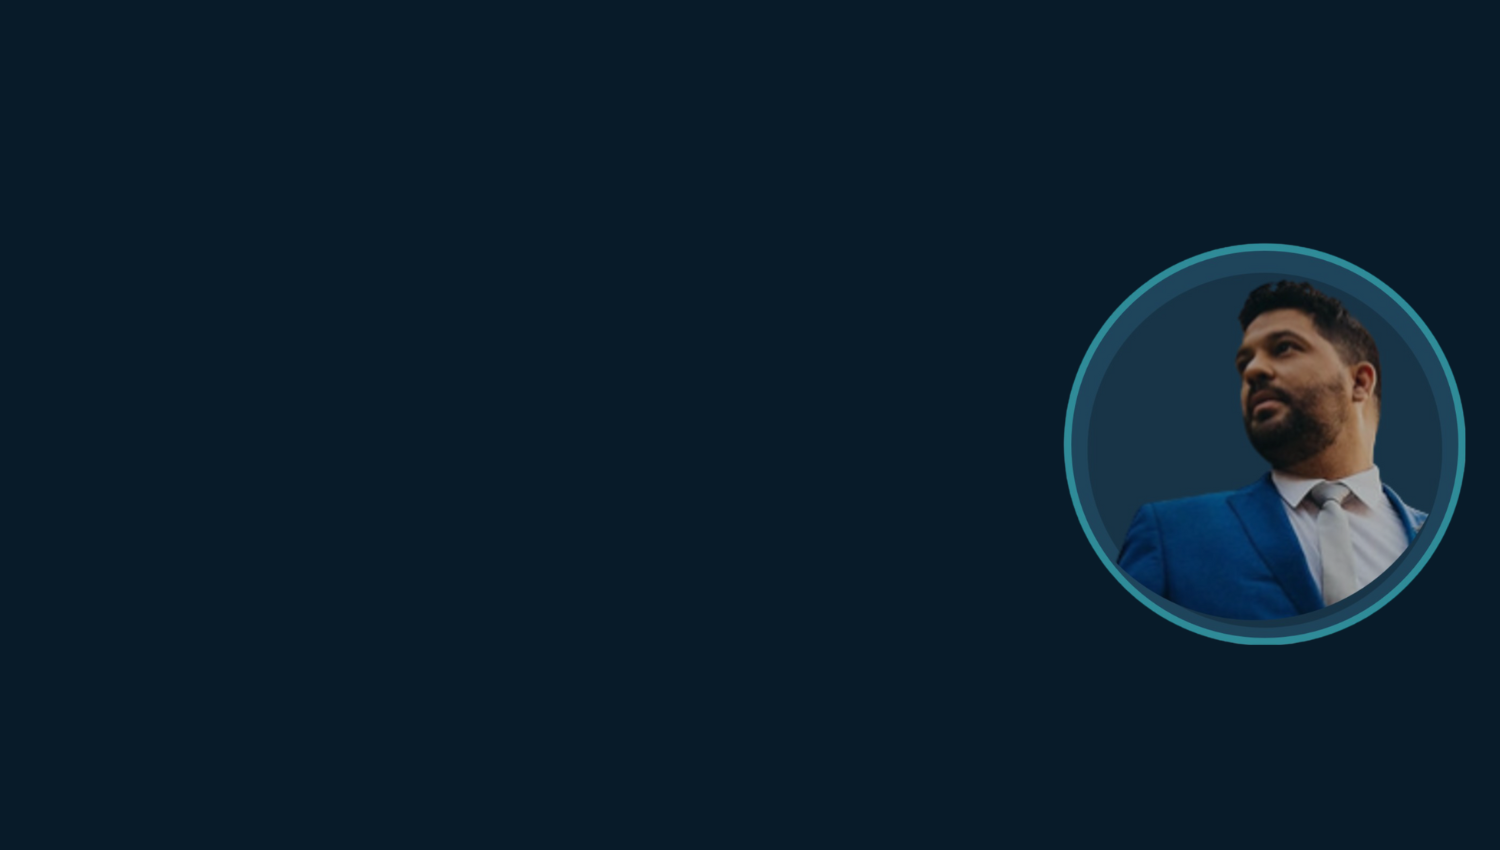
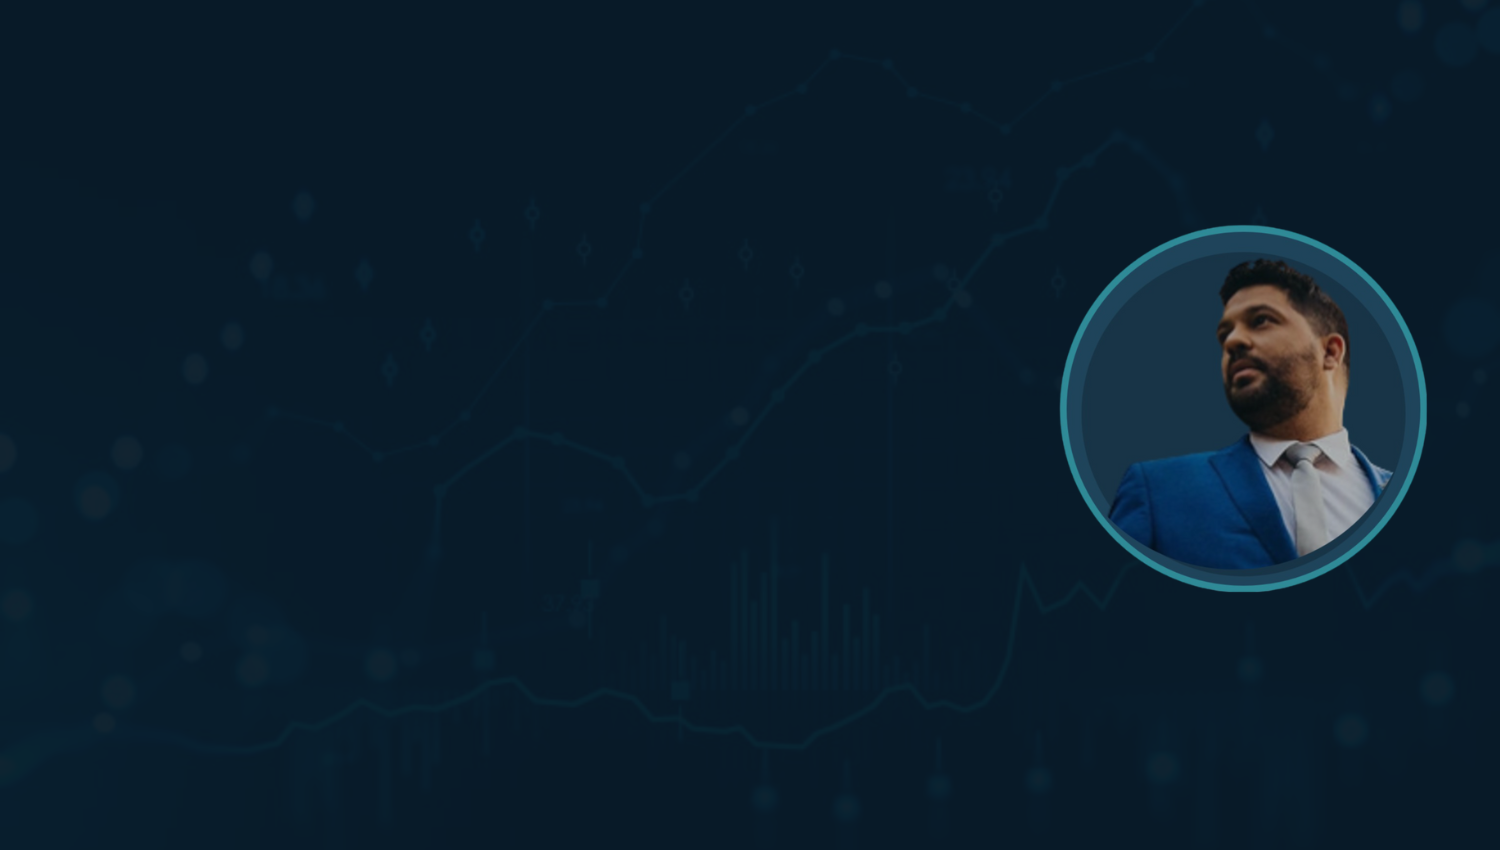
ajustando index

Changed region(s): [[0.7053, 0.2447, 0.9813, 0.7647]]

diff --git a/assets/css/geral/responsivo.css b/assets/css/geral/responsivo.css
@@ -1,0 +1,98 @@
+/* Estilos para telas pequenas (celulares) */
+@media (max-width: 600px) {
+    header {
+        flex-direction: column;
+        align-items: flex-start;
+        padding: 10px 5%;
+    }
+
+    .navbar {
+        flex-direction: column;
+        width: 100%;
+        align-items: flex-start;
+    }
+
+    .navbar a {
+        padding: 10px 0;
+        width: 100%;
+        text-align: center;
+        margin-left: 0;
+    }
+
+    .home {
+        background: #081b29;
+        padding: 20px 5%;
+    }
+
+    .home-content h1 {
+        font-size: 24px;
+    }
+
+    .home-content h3 {
+        font-size: 18px;
+    }
+
+    .home-content p {
+        font-size: 14px;
+    }
+
+    .btn-box {
+        flex-direction: column;
+        align-items: center;
+        width: 100%;
+    }
+
+    .btn-box a {
+        width: 100%;
+        margin-bottom: 10px;
+    }
+
+    .home-sci {
+        flex-direction: row;
+        width: 100%;
+        justify-content: center;
+    }
+}
+
+/* Estilos para telas médias (tablets) */
+@media (min-width: 601px) and (max-width: 1024px) {
+    .home {
+        padding: 20px 5%;
+    }
+
+    .home-content h1 {
+        font-size: 32px;
+    }
+
+    .home-content h3 {
+        font-size: 24px;
+    }
+
+    .home-content p {
+        font-size: 16px;
+    }
+
+    .btn-box {
+        width: 100%;
+        justify-content: space-around;
+    }
+
+    .btn-box a {
+        width: auto;
+    }
+}
+
+/* Estilos para telas grandes (desktops) */
+@media (min-width: 1025px) {
+    .home-content h1 {
+        font-size: 56px;
+    }
+
+    .home-content h3 {
+        font-size: 32px;
+    }
+
+    .home-content p {
+        font-size: 16px;
+    }
+}

diff --git a/index.html b/index.html
@@ -3,6 +3,9 @@
 <head>
     <meta charset="UTF-8">
     <meta name="viewport" content="width=device-width, initial-scale=1.0">
+    
+
+
     <title>home - Caio Barroso</title>    
     <link rel="stylesheet" href="assets/css/geral/nav.css">     
     <link rel="stylesheet" href="assets/css/geral/body.css">
@@ -25,6 +28,9 @@
 
     
     <link href='https://unpkg.com/boxicons@2.1.4/css/boxicons.min.css' rel='stylesheet'>
+
+    <!-- Link para o CSS responsivo -->
+    <link rel="stylesheet" href="assets/css/responsive.css">
 
 
 </head>
@@ -69,7 +75,7 @@
 
             <div class="btn-box">
                 <a target="_blank" href="https://contate.me/caio_barroso">Fale comigo!</a>
-                <a target="_blank" href="assets/doc/CV_Caio Cesar Moura Barroso.pdf">Download CV!</a>
+                <a target="_blank" href="assets/doc/CV_Caio Cesar Moura Barroso.pdf">Download CV</a>
             </div>
         </div>
 

diff --git a/assets/css/geral/body.css b/assets/css/geral/body.css
@@ -8,9 +8,13 @@
 }
 
 body {
-    /* background: #081b29; */
-    color: #ededed;
-    background: #081b29;
+    
+    color: #ededed;    
+    background: url(../../img/backgroud.png) no-repeat;
+    background-size: cover;
+    background-position: center;
 
 }
+
+
 

diff --git a/assets/css/geral/nav.css b/assets/css/geral/nav.css
@@ -47,17 +47,3 @@ header{
 
 
 
-/* KEYFRAMES ANIMAÇÕES */
-
-
-@keyframes showRight{
-    100%{
-        width: 0;
-    }
-}
-
-@keyframes manipActiveHover{
-    100%{
-        pointer-events: auto;
-    }
-}
